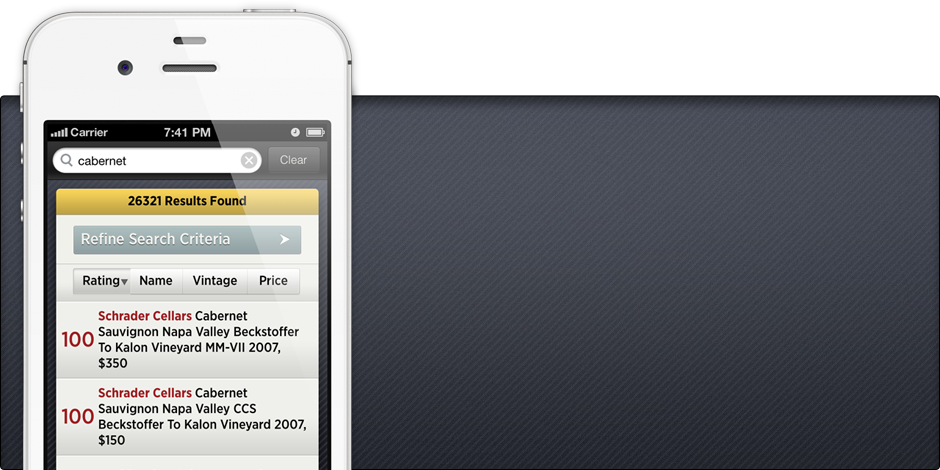
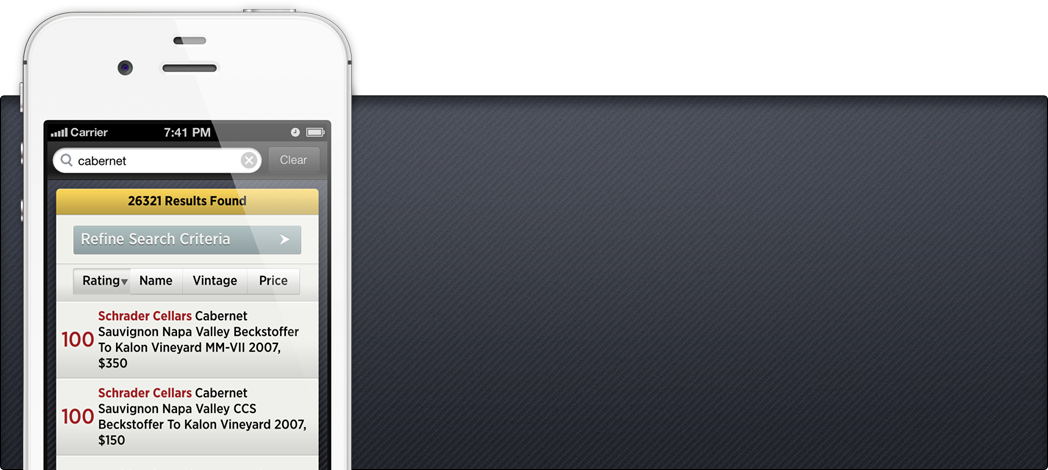
changed home img for new g12

Changed region(s): [[0.0, 0.0, 0.4011, 1.0], [0.0926, 0.0596, 0.2468, 0.1787], [0.0309, 0.0298, 0.0617, 0.0894]]

diff --git a/web/style/css/apps.css b/web/style/css/apps.css
@@ -1465,14 +1465,14 @@ nav a:hover {
   border-radius: 0 0 4px 4px;
   color: #fff;
   height: 470px;
-  width: 940px;
+  width: 1048px;
 }
 #home-wr-copy {
   float: right;
   font-size: 16px;
   text-shadow: 0 1px 1px #000000;
-  margin: 166px 30px 0 0;
-  width: 516px;
+  margin: 150px 30px 0 0;
+  width: 622px;
 }
 #home-wr h2,
 #home-wr h2 a {
@@ -1492,7 +1492,7 @@ nav a:hover {
   box-shadow: 0 2px 3px #000;
 }
 #home-wr p {
-  margin-bottom: 44px;
+  margin-bottom: 35px;
 }
 /* -----
 -- vc --
@@ -1819,18 +1819,52 @@ img {
   max-width: 100%;
 }
 /* ========================================================= Structure ===*/
+/* ----------
+ -- 960px --
+---------- */
+@media screen and (min-width: 1024px) and (max-width: 1068px) {
+  #subForm li {
+    width: 449px;
+  }
+}
 /* ---------
  -- 768px --
 --------- */
-@media screen and (min-width: 768px) and (max-width: 960px) {
+@media screen and (min-width: 768px) and (max-width: 1023px) {
   #intro h2 {
     margin: 83px 0 0;
+  }
+  #subForm li {
+    width: 449px;
+  }
+  #subForm li {
+    width: 353px;
+  }
+  #subForm span {
+    font-size: 14px;
+    margin: 8px 0 0 5px;
   }
 }
 /* ---------
  -- 480px --
 --------- */
 @media screen and (min-width: 480px) and (max-width: 767px) {
+  header h1 {
+    display: block;
+    margin: 10px 0 0;
+    text-align: center;
+  }
+  nav {
+    float: none;
+    margin: 5px 10px 15px;
+  }
+  nav li {
+    display: inline-block;
+    float: none;
+  }
+  nav li a {
+    padding: 8px 23px 5px;
+  }
   #intro {
     margin: 0 0 30px;
     padding: 10px 0 20px;
@@ -1840,12 +1874,38 @@ img {
   }
   #intro h2 {
     margin: 0;
+  }
+  #subForm li {
+    width: 428px;
+  }
+  #subForm span {
+    font-size: 18px;
+    margin: 2px 0 10px 5px;
   }
 }
 /* ---------
  -- 320px --
 --------- */
 @media screen and (min-width: 320px) and (max-width: 479px) {
+  header h1 {
+    display: block;
+    margin: 10px 0 0;
+    text-align: center;
+  }
+  nav {
+    float: none;
+    margin: 5px 10px 15px;
+  }
+  nav li {
+    display: block;
+    float: none;
+  }
+  nav li a {
+    border-right: none;
+    border-bottom: 1px solid rgba(0, 0, 0, 0.5);
+    box-shadow: 0 1px 0 rgba(255, 255, 255, 0.2);
+    padding: 8px 23px 5px;
+  }
   #intro {
     margin: 0 0 30px;
     padding: 10px 0 20px;
@@ -1855,5 +1915,15 @@ img {
   }
   #intro h2 {
     margin: 0;
+  }
+  #subForm li {
+    width: 268px;
+  }
+  #subForm span {
+    font-size: 18px;
+    margin: 2px 0 10px 5px;
+  }
+  #copy {
+    width: 130px;
   }
 }

diff --git a/web/style/less/apps.less b/web/style/less/apps.less
@@ -132,14 +132,14 @@ nav a:hover{
 	border-radius: 0 0 4px 4px;
 	color: #fff;
 	height: 470px;
-	width: 940px;
+	width: 1048px;
 }
 #home-wr-copy{
 	float: right;
 	font-size: 16px;
     text-shadow: 0 1px 1px #000000;
-	margin:166px 30px 0 0;
-	width: 516px;
+	margin:150px 30px 0 0;
+	width: 622px;
 }
 #home-wr h2, #home-wr h2 a{
 	color: #fff;
@@ -158,7 +158,7 @@ nav a:hover{
 	box-shadow: 0 2px 3px #000;
 }
 #home-wr p{
-	margin-bottom: 44px;
+	margin-bottom: 35px;
 }
 /* -----
 -- vc --
@@ -490,20 +490,52 @@ img{
 	max-width: 100%;
 }
 /* ========================================================= Structure ===*/
+/* ----------
+ -- 960px --
+---------- */
+@media screen and (min-width: 1024px) and (max-width: 1068px){
+	#subForm li {
+		width: 449px;
+	}
+}
 /* ---------
  -- 768px --
 --------- */
-@media screen and (min-width: 768px) and (max-width: 960px){
-
+@media screen and (min-width: 768px) and (max-width: 1023px){
 	#intro h2{
 		margin: 83px 0 0;
+	}
+	#subForm li {
+		width: 449px;
+	}
+	#subForm li {
+		width: 353px;
+	}
+	#subForm span {
+		font-size: 14px;
+    	margin: 8px 0 0 5px;
 	}
 }
 /* ---------
  -- 480px --
 --------- */
 @media screen and (min-width: 480px) and (max-width: 767px) {
-
+	header h1 {
+		display: block;
+		margin: 10px 0 0;
+		text-align: center;
+	}
+	nav{
+		float: none;
+		margin: 5px 10px 15px;
+	}
+	nav li {
+		display: inline-block;
+    	float: none;
+	}
+	nav li a{
+		padding: 8px 23px 5px;
+	}
 	#intro{
 		margin: 0 0 30px;
 		padding: 10px 0 20px;
@@ -513,12 +545,38 @@ img{
 	}
 	#intro h2{
 		margin:0;
+	}
+	#subForm li {
+		width: 428px;
+	}
+	#subForm span {
+		font-size: 18px;
+		margin: 2px 0 10px 5px;
 	}
 }
 /* ---------
  -- 320px --
 --------- */
 @media screen and (min-width: 320px) and (max-width: 479px) {
+	header h1 {
+		display: block;
+		margin: 10px 0 0;
+		text-align: center;
+	}
+	nav{
+		float: none;
+		margin: 5px 10px 15px;
+	}
+	nav li {
+		display: block;
+    	float: none;
+	}
+	nav li a{
+		border-right: none;
+		border-bottom: 1px solid rgba(0, 0, 0, 0.5);
+    	box-shadow: 0 1px 0 rgba(255, 255, 255, 0.2);
+		padding: 8px 23px 5px;
+	}
 	#intro{
 		margin: 0 0 30px;
 		padding: 10px 0 20px;
@@ -528,5 +586,15 @@ img{
 	}
 	#intro h2{
 		margin:0;
+	}
+	#subForm li {
+		width: 268px;
+	}
+	#subForm span {
+		font-size: 18px;
+		margin: 2px 0 10px 5px;
+	}
+	#copy{
+		width: 130px;
 	}
 }
